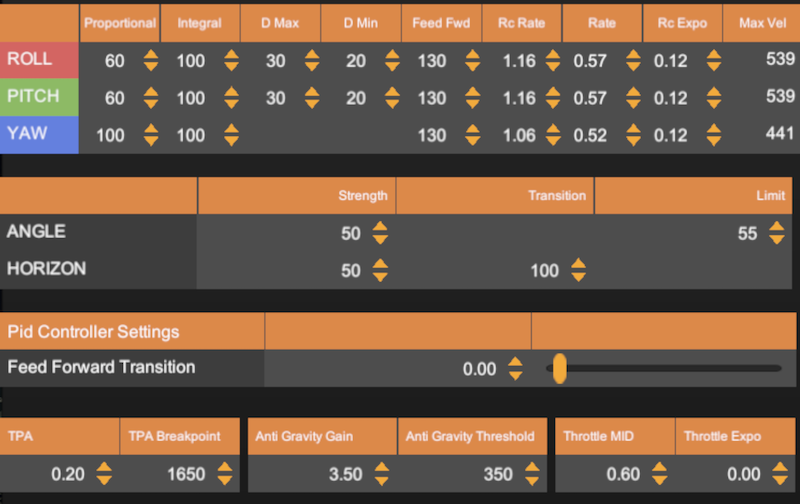
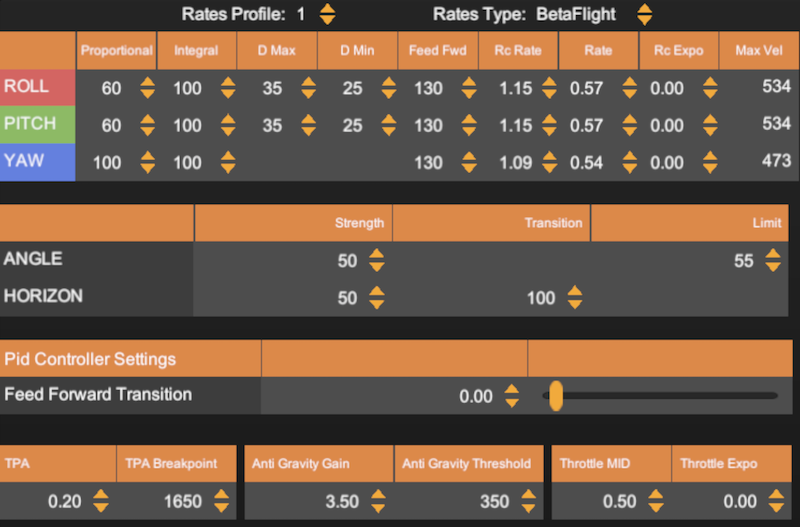
Rates update

diff --git a/documents/rates-velocidrone.md b/documents/rates-velocidrone.md
@@ -6,6 +6,11 @@
 
 ## Racing rates "open" (Five33 Switchback)
 
+Prop: 5150
+Prop profile:
+ * Profile 1 seems faster
+ * Profile 2 better for tight turns (?)
+
 ![Racing rates](images/velocidrone-racing-open.png)
 
 ## Racing rates old (Five33 Switchback)
